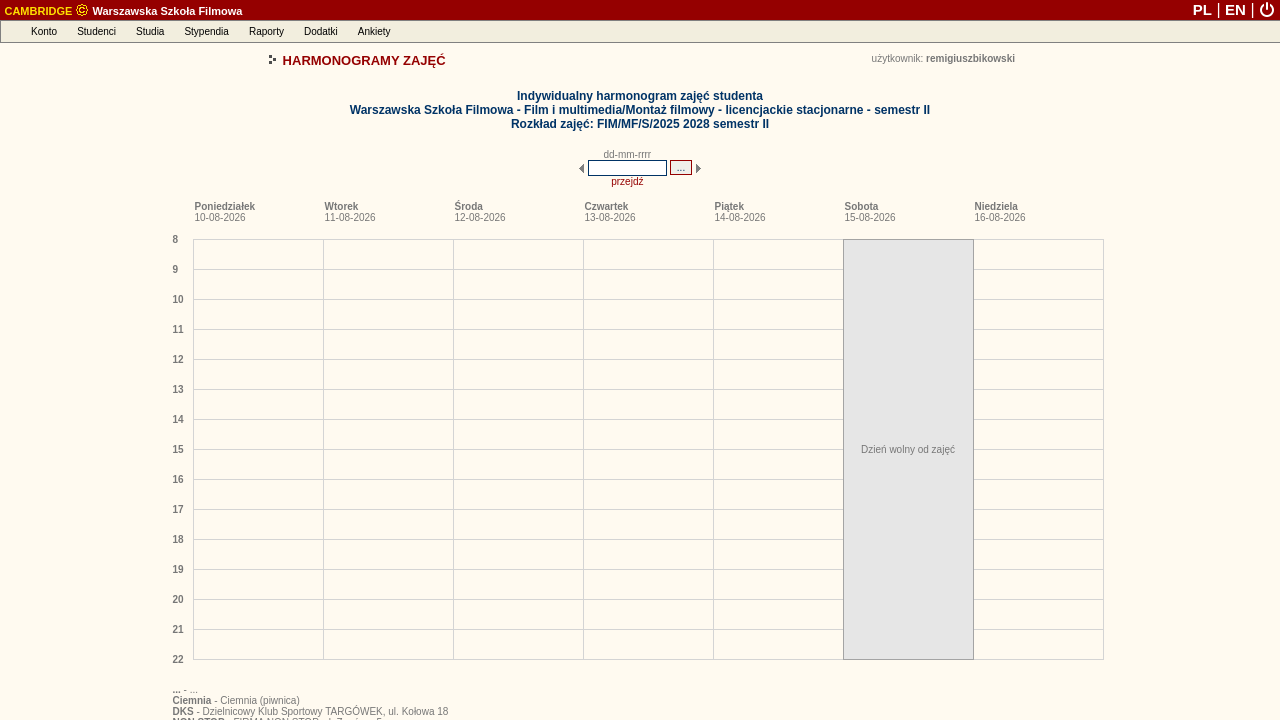
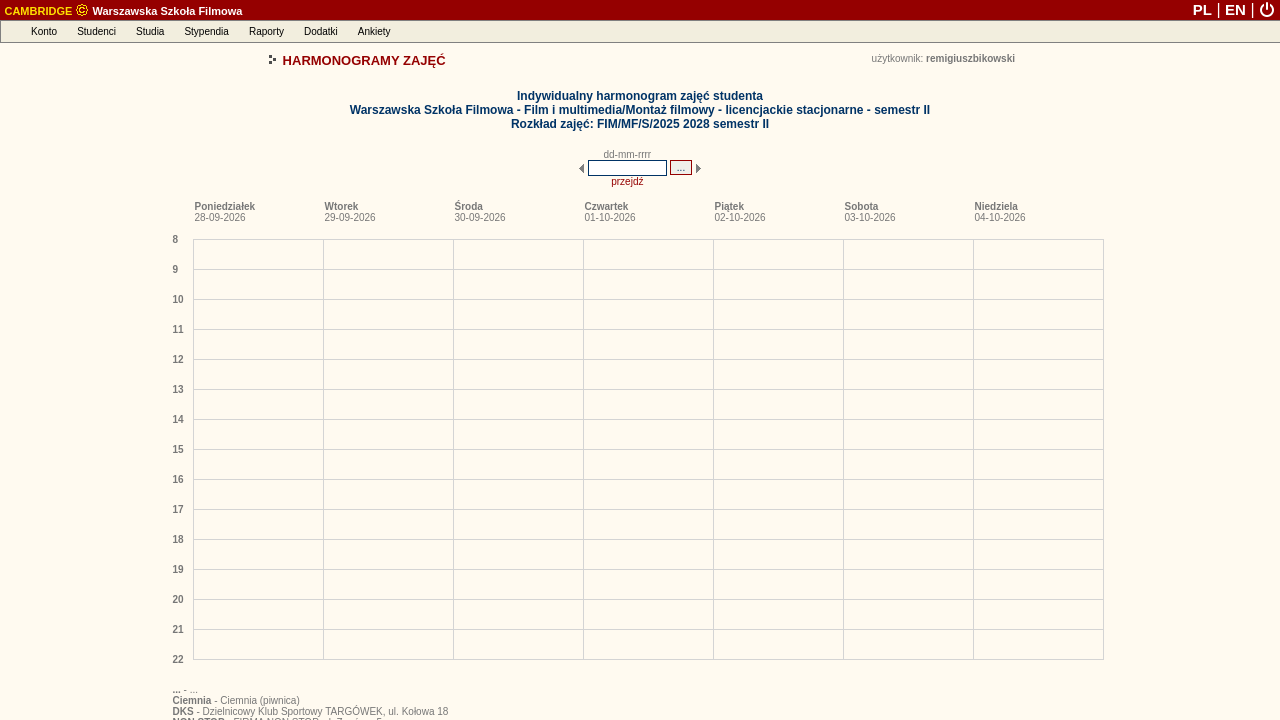
deploy: 0089a95886e71301e0455e70b701082a0dc46df1

Changed region(s): [[0.6562, 0.3056, 0.7812, 0.9167], [0.75, 0.275, 0.7812, 0.3056]]

diff --git a/debug_harmonogram_page.html b/debug_harmonogram_page.html
@@ -163,8 +163,8 @@
 
 
 
-<link rel="stylesheet" type="text/css" href="/palio/html.run?_Instance=cambridge&amp;_PageID=4&amp;_SessionID=1720800&amp;_SessionKey=1401491127&amp;ZoomView=&amp;DisplayMode=&amp;_CheckSum=-928589046">
-<script language="javascript" type="text/javascript" src="/palio/html.run?_Instance=cambridge&amp;_PageID=5&amp;_SessionID=1720800&amp;_SessionKey=1401491127&amp;_CheckSum=-1267184002"></script>
+<link rel="stylesheet" type="text/css" href="/palio/html.run?_Instance=cambridge&amp;_PageID=4&amp;_SessionID=1721620&amp;_SessionKey=409361062&amp;ZoomView=&amp;DisplayMode=&amp;_CheckSum=2044629910">
+<script language="javascript" type="text/javascript" src="/palio/html.run?_Instance=cambridge&amp;_PageID=5&amp;_SessionID=1721620&amp;_SessionKey=409361062&amp;_CheckSum=467626324"></script>
 
 
 
@@ -354,9 +354,9 @@ CambridgeMenuBar = new jsDOMenuBar("absolute", true)
 
 AccountMenu=new jsDOMenu(200, "", "absolute", false);
 
-AccountMenu.addMenuItem(new menuItem("Zmiana hasła", "", "/palio/html.run?_Instance=cambridge&amp;_PageID=11&amp;_SessionID=1720800&amp;_SessionKey=1401491127&amp;_CheckSum=761849839"));
+AccountMenu.addMenuItem(new menuItem("Zmiana hasła", "", "/palio/html.run?_Instance=cambridge&amp;_PageID=11&amp;_SessionID=1721620&amp;_SessionKey=409361062&amp;_CheckSum=-1129488957"));
 
-  AccountMenu.addMenuItem(new menuItem("Komunikator", "", "/palio/html.run?_Instance=cambridge&amp;_PageID=180&amp;_SessionID=1720800&amp;_SessionKey=1401491127&amp;_CheckSum=-43109942"));
+  AccountMenu.addMenuItem(new menuItem("Komunikator", "", "/palio/html.run?_Instance=cambridge&amp;_PageID=180&amp;_SessionID=1721620&amp;_SessionKey=409361062&amp;_CheckSum=507112584"));
 
 
 
@@ -369,7 +369,7 @@ AccountMenu.addMenuItem(new menuItem("Yammer", "", "https://www.yammer.com/onlin
 
 AccountMenu.addMenuItem(new menuItem("-"));
 
-AccountMenu.addMenuItem(new menuItem("Wylogowanie", "", "https://student.szkolafilmowa.pl/palio/html.run?_Instance=cambridge&amp;_PageID=10012&amp;_Action=Logout&amp;_SessionID=1720800&amp;_SessionKey=1401491127"));
+AccountMenu.addMenuItem(new menuItem("Wylogowanie", "", "https://student.szkolafilmowa.pl/palio/html.run?_Instance=cambridge&amp;_PageID=10012&amp;_Action=Logout&amp;_SessionID=1721620&amp;_SessionKey=409361062"));
 
 CambridgeMenuBar.addMenuBarItem(new menuBarItem("Konto", AccountMenu));
 
@@ -382,12 +382,12 @@ StudentsMenu=new jsDOMenu(320, "", "absolute", false);
 
 
 
-StudentsMenu.addMenuItem(new menuItem("Moje dane", "", "/palio/html.run?_Instance=cambridge&amp;_PageID=185&amp;_SessionID=1720800&amp;_SessionKey=1401491127&amp;_CheckSum=-1106270875"));
+StudentsMenu.addMenuItem(new menuItem("Moje dane", "", "/palio/html.run?_Instance=cambridge&amp;_PageID=185&amp;_SessionID=1721620&amp;_SessionKey=409361062&amp;_CheckSum=-635561587"));
 
 
 
 
-StudentsMenu.addMenuItem(new menuItem("Moje indeksy", "", "/palio/html.run?_Instance=cambridge&amp;_PageID=186&amp;_SessionID=1720800&amp;_SessionKey=1401491127&amp;_CheckSum=1258077316"));
+StudentsMenu.addMenuItem(new menuItem("Moje indeksy", "", "/palio/html.run?_Instance=cambridge&amp;_PageID=186&amp;_SessionID=1721620&amp;_SessionKey=409361062&amp;_CheckSum=-5102962"));
 
 
 
@@ -426,7 +426,7 @@ StudiesMenu=new jsDOMenu(250, "", "absolute", false);
 
 
 
-StudiesMenu.addMenuItem(new menuItem("Moje plany studiów", "", "/palio/html.run?_Instance=cambridge&amp;_PageID=258&amp;_SessionID=1720800&amp;_SessionKey=1401491127&amp;_CheckSum=951668702"));
+StudiesMenu.addMenuItem(new menuItem("Moje plany studiów", "", "/palio/html.run?_Instance=cambridge&amp;_PageID=258&amp;_SessionID=1721620&amp;_SessionKey=409361062&amp;_CheckSum=-1261913100"));
 
 
 
@@ -434,13 +434,13 @@ StudiesMenu.addMenuItem(new menuItem("Moje plany studiów", "", "/palio/html.run
 
 
 
-StudiesMenu.addMenuItem(new menuItem("Harmonogramy zajęć", "", "/palio/html.run?_Instance=cambridge&amp;_PageID=95&amp;_SessionID=1720800&amp;_SessionKey=1401491127&amp;_CheckSum=-422860173"));
+StudiesMenu.addMenuItem(new menuItem("Harmonogramy zajęć", "", "/palio/html.run?_Instance=cambridge&amp;_PageID=95&amp;_SessionID=1721620&amp;_SessionKey=409361062&amp;_CheckSum=-1167705409"));
 
-StudiesMenu.addMenuItem(new menuItem("Harmonogramy moich zajęć", "", "/palio/html.run?_Instance=cambridge&amp;_PageID=191&amp;_SessionID=1720800&amp;_SessionKey=1401491127&amp;_CheckSum=-1693379158"));
+StudiesMenu.addMenuItem(new menuItem("Harmonogramy moich zajęć", "", "/palio/html.run?_Instance=cambridge&amp;_PageID=191&amp;_SessionID=1721620&amp;_SessionKey=409361062&amp;_CheckSum=-793047896"));
 
-StudiesMenu.addMenuItem(new menuItem("Harmonogramy innych zajęć", "", "/palio/html.run?_Instance=cambridge&amp;_PageID=248&amp;_SessionID=1720800&amp;_SessionKey=1401491127&amp;_CheckSum=671318813"));
+StudiesMenu.addMenuItem(new menuItem("Harmonogramy innych zajęć", "", "/palio/html.run?_Instance=cambridge&amp;_PageID=248&amp;_SessionID=1721620&amp;_SessionKey=409361062&amp;_CheckSum=668706005"));
 
-StudiesMenu.addMenuItem(new menuItem("Harmonogramy zajętości sal", "", "/palio/html.run?_Instance=cambridge&amp;_PageID=269&amp;_SessionID=1720800&amp;_SessionKey=1401491127&amp;_CheckSum=-698600514"));
+StudiesMenu.addMenuItem(new menuItem("Harmonogramy zajętości sal", "", "/palio/html.run?_Instance=cambridge&amp;_PageID=269&amp;_SessionID=1721620&amp;_SessionKey=409361062&amp;_CheckSum=1732893716"));
 
 
 
@@ -470,9 +470,9 @@ CambridgeMenuBar.addMenuBarItem(new menuBarItem("Studia", StudiesMenu));
 ScholarshipsMenu=new jsDOMenu(230, "", "absolute", false);
 
 
-ScholarshipsMenu.addMenuItem(new menuItem("Moje stypendia", "", "/palio/html.run?_Instance=cambridge&amp;_PageID=187&amp;_SessionID=1720800&amp;_SessionKey=1401491127&amp;_CheckSum=-672541789"));
+ScholarshipsMenu.addMenuItem(new menuItem("Moje stypendia", "", "/palio/html.run?_Instance=cambridge&amp;_PageID=187&amp;_SessionID=1721620&amp;_SessionKey=409361062&amp;_CheckSum=625355663"));
 
-ScholarshipsMenu.addMenuItem(new menuItem("Mój numer rachunku", "", "/palio/html.run?_Instance=cambridge&amp;_PageID=380&amp;_SessionID=1720800&amp;_SessionKey=1401491127&amp;_CheckSum=158713992"));
+ScholarshipsMenu.addMenuItem(new menuItem("Mój numer rachunku", "", "/palio/html.run?_Instance=cambridge&amp;_PageID=380&amp;_SessionID=1721620&amp;_SessionKey=409361062&amp;_CheckSum=1067812362"));
 
 
 
@@ -482,9 +482,9 @@ ScholarshipsMenu.addMenuItem(new menuItem("Mój numer rachunku", "", "/palio/htm
 ScholarshipsMenu.addMenuItem(new menuItem("-"));
 
 
-ScholarshipsMenu.addMenuItem(new menuItem("Fundusze stypendialne", "", "/palio/html.run?_Instance=cambridge&amp;_PageID=54&amp;_SessionID=1720800&amp;_SessionKey=1401491127&amp;_CheckSum=386359376"));
+ScholarshipsMenu.addMenuItem(new menuItem("Fundusze stypendialne", "", "/palio/html.run?_Instance=cambridge&amp;_PageID=54&amp;_SessionID=1721620&amp;_SessionKey=409361062&amp;_CheckSum=1629345090"));
 
-ScholarshipsMenu.addMenuItem(new menuItem("Rodzaje stypendiów", "", "/palio/html.run?_Instance=cambridge&amp;_PageID=55&amp;_SessionID=1720800&amp;_SessionKey=1401491127&amp;_CheckSum=-1544259729"));
+ScholarshipsMenu.addMenuItem(new menuItem("Rodzaje stypendiów", "", "/palio/html.run?_Instance=cambridge&amp;_PageID=55&amp;_SessionID=1721620&amp;_SessionKey=409361062&amp;_CheckSum=-2035163581"));
 
 
 
@@ -495,7 +495,7 @@ CambridgeMenuBar.addMenuBarItem(new menuBarItem("Stypendia", ScholarshipsMenu));
 ReportsMenu=new jsDOMenu(200, "", "absolute", false);
 
 
-ReportsMenu.addMenuItem(new menuItem("Generowanie raportów", "", "/palio/html.run?_Instance=cambridge&amp;_PageID=68&amp;_SessionID=1720800&amp;_SessionKey=1401491127&amp;_CheckSum=1534167437"));
+ReportsMenu.addMenuItem(new menuItem("Generowanie raportów", "", "/palio/html.run?_Instance=cambridge&amp;_PageID=68&amp;_SessionID=1721620&amp;_SessionKey=409361062&amp;_CheckSum=-2074406811"));
 
 
 
@@ -505,7 +505,7 @@ CambridgeMenuBar.addMenuBarItem(new menuBarItem("Raporty", ReportsMenu));
 
 AdditionalsMenu=new jsDOMenu(200, "", "absolute", false);
 
-AdditionalsMenu.addMenuItem(new menuItem("Forum internetowe", "", "/palio/html.run?_Instance=cambridge&amp;_PageID=8001&amp;_SessionID=1720800&amp;_SessionKey=1401491127&amp;_CheckSum=790604214"));
+AdditionalsMenu.addMenuItem(new menuItem("Forum internetowe", "", "/palio/html.run?_Instance=cambridge&amp;_PageID=8001&amp;_SessionID=1721620&amp;_SessionKey=409361062&amp;_CheckSum=-574372068"));
 
 
 
@@ -539,7 +539,7 @@ PollsMenu=new jsDOMenu(225, "", "absolute", false);
 
 
 
-PollsMenu.addMenuItem(new menuItem("Wypełnianie ankiet", "", "/palio/html.run?_Instance=cambridge&amp;_PageID=227&amp;_SessionID=1720800&amp;_SessionKey=1401491127&amp;_CheckSum=2041238140"));
+PollsMenu.addMenuItem(new menuItem("Wypełnianie ankiet", "", "/palio/html.run?_Instance=cambridge&amp;_PageID=227&amp;_SessionID=1721620&amp;_SessionKey=409361062&amp;_CheckSum=-395481706"));
 
 
 CambridgeMenuBar.addMenuBarItem(new menuBarItem("Ankiety", PollsMenu));
@@ -576,7 +576,7 @@ CambridgeMenuBar.moveTo(0,20);
 <table width="100%" border="0" cellspacing="0" cellpadding="0" align="center">
 <tbody><tr class="top_belt">
 
-<td align="left" height="20"><b>&nbsp;<a class="belt" href="/palio/html.run?_Instance=cambridge&amp;_PageID=6&amp;_SessionID=1720800&amp;_SessionKey=1401491127&amp;_CheckSum=1097164189"><span class="belt_application">CAMBRIDGE</span> <img src="/palio/html.media?_Instance=cambridge&amp;_Option=Palio&amp;_ID=51&amp;_CheckSum=684598873" width="14" height="14" border="0" style="position:relative;top:-2px;vertical-align:bottom"> Warszawska Szkoła Filmowa</a></b></td>
+<td align="left" height="20"><b>&nbsp;<a class="belt" href="/palio/html.run?_Instance=cambridge&amp;_PageID=6&amp;_SessionID=1721620&amp;_SessionKey=409361062&amp;_CheckSum=1098084949"><span class="belt_application">CAMBRIDGE</span> <img src="/palio/html.media?_Instance=cambridge&amp;_Option=Palio&amp;_ID=51&amp;_CheckSum=684598873" width="14" height="14" border="0" style="position:relative;top:-2px;vertical-align:bottom"> Warszawska Szkoła Filmowa</a></b></td>
 <td align="right">
 
 
@@ -587,13 +587,13 @@ CambridgeMenuBar.moveTo(0,20);
 
 
 
-<a href="/palio/html.run?_Instance=cambridge&amp;_PageID=6&amp;_SessionID=1720800&amp;_SessionKey=1401491127&amp;SetLanguage=pl&amp;_CheckSum=-992986787" class="belt" style="font-size:15px;line-height:18px;text-decoration:none" title="polski"><b>PL</b></a>
+<a href="/palio/html.run?_Instance=cambridge&amp;_PageID=6&amp;_SessionID=1721620&amp;_SessionKey=409361062&amp;SetLanguage=pl&amp;_CheckSum=-1872707163" class="belt" style="font-size:15px;line-height:18px;text-decoration:none" title="polski"><b>PL</b></a>
 <span class="belt" style="font-size:16px">|</span>
-<a href="/palio/html.run?_Instance=cambridge&amp;_PageID=6&amp;_SessionID=1720800&amp;_SessionKey=1401491127&amp;SetLanguage=en&amp;_CheckSum=899796496" class="belt" style="font-size:15px;line-height:18px;text-decoration:none" title="english"><b>EN</b></a>
+<a href="/palio/html.run?_Instance=cambridge&amp;_PageID=6&amp;_SessionID=1721620&amp;_SessionKey=409361062&amp;SetLanguage=en&amp;_CheckSum=20076120" class="belt" style="font-size:15px;line-height:18px;text-decoration:none" title="english"><b>EN</b></a>
 <span class="belt" style="font-size:16px">|</span>
 
 
-<img src="/palio/html.media?_Instance=cambridge&amp;_Option=Palio&amp;_ID=94&amp;_CheckSum=-1316787974" style="cursor:pointer;vertical-align:bottom;margin-bottom:2px;margin-right:5px" alt="Wyloguj" title="Wyloguj" onclick="if(confirm('Czy na pewno chcesz się wylogować?'))window.location='https://student.szkolafilmowa.pl/palio/html.run?_Instance=cambridge&amp;_PageID=10012&amp;_Action=Logout&amp;_SessionID=1720800&amp;_SessionKey=1401491127'">
+<img src="/palio/html.media?_Instance=cambridge&amp;_Option=Palio&amp;_ID=94&amp;_CheckSum=-1316787974" style="cursor:pointer;vertical-align:bottom;margin-bottom:2px;margin-right:5px" alt="Wyloguj" title="Wyloguj" onclick="if(confirm('Czy na pewno chcesz się wylogować?'))window.location='https://student.szkolafilmowa.pl/palio/html.run?_Instance=cambridge&amp;_PageID=10012&amp;_Action=Logout&amp;_SessionID=1721620&amp;_SessionKey=409361062'">
 </td>
 
 </tr>
@@ -2153,16 +2153,16 @@ document.schedule_scroll_form.submit();
 }
 function goForward()
 {
-document.schedule_scroll_form._firstDayOfWeek.value = '17-08-2026';
+document.schedule_scroll_form._firstDayOfWeek.value = '05-10-2026';
 document.schedule_scroll_form.submit();
 }
 function goBackward()
 {
-document.schedule_scroll_form._firstDayOfWeek.value = '08-08-2026';
+document.schedule_scroll_form._firstDayOfWeek.value = '26-09-2026';
 document.schedule_scroll_form.submit();
 }
 </script>
-<form method="post" name="schedule_scroll_form" id="schedule_scroll_form" action="/palio/html.run?_Instance=cambridge&amp;_PageID=191&amp;_SessionID=1720800&amp;_SessionKey=1401491127&amp;_RowID=7251&amp;_RowIDType=I&amp;_CheckSum=-1414648876" onsubmit="return checkFrm_schedule_scroll_form(this)">
+<form method="post" name="schedule_scroll_form" id="schedule_scroll_form" action="/palio/html.run?_Instance=cambridge&amp;_PageID=191&amp;_SessionID=1721620&amp;_SessionKey=409361062&amp;_RowID=7251&amp;_RowIDType=I&amp;_CheckSum=-1155560298" onsubmit="return checkFrm_schedule_scroll_form(this)">
 <div style="display:none;"><input type="hidden" name="_formSubmitted" value="yes"></div>
 <input type="hidden" name="_firstDayOfWeek">
 <table cellspacing="0" cellpadding="0" border="0" align="center">
@@ -2938,22 +2938,6 @@ return true;
 
 
 
-
-
-
-
-
-
-
-
-
-
-
-
-
-
-
-
 <br>
 
 
@@ -2965,9 +2949,6 @@ return true;
 
 
 
- 
- 
- 
 
 
 
@@ -3020,52 +3001,6 @@ return true;
 
 
 
-
-
-
-
-
-
-
-
-
-
-
-
-
-
-
-
-
-
-
-
-
-
-
-
-
-
-
-
-
-
-
-
-
-
-
-
-
-
-
-
-
-
-
-
-
-  
 
 
 
@@ -3524,7 +3459,7 @@ tipDivElement.style.visibility="hidden"
 <tbody><tr><td class="font">
 <b class="font">Poniedziałek</b><br>
 
-<span class="font">10-08-2026</span>
+<span class="font">28-09-2026</span>
 </td></tr>
 </tbody></table>
 </div>
@@ -3539,7 +3474,7 @@ tipDivElement.style.visibility="hidden"
 <tbody><tr><td class="font">
 <b class="font">Wtorek</b><br>
 
-<span class="font">11-08-2026</span>
+<span class="font">29-09-2026</span>
 </td></tr>
 </tbody></table>
 </div>
@@ -3554,7 +3489,7 @@ tipDivElement.style.visibility="hidden"
 <tbody><tr><td class="font">
 <b class="font">Środa</b><br>
 
-<span class="font">12-08-2026</span>
+<span class="font">30-09-2026</span>
 </td></tr>
 </tbody></table>
 </div>
@@ -3569,7 +3504,7 @@ tipDivElement.style.visibility="hidden"
 <tbody><tr><td class="font">
 <b class="font">Czwartek</b><br>
 
-<span class="font">13-08-2026</span>
+<span class="font">01-10-2026</span>
 </td></tr>
 </tbody></table>
 </div>
@@ -3584,7 +3519,7 @@ tipDivElement.style.visibility="hidden"
 <tbody><tr><td class="font">
 <b class="font">Piątek</b><br>
 
-<span class="font">14-08-2026</span>
+<span class="font">02-10-2026</span>
 </td></tr>
 </tbody></table>
 </div>
@@ -3599,7 +3534,7 @@ tipDivElement.style.visibility="hidden"
 <tbody><tr><td class="font">
 <b class="font">Sobota</b><br>
 
-<span class="font">15-08-2026</span>
+<span class="font">03-10-2026</span>
 </td></tr>
 </tbody></table>
 </div>
@@ -3614,7 +3549,7 @@ tipDivElement.style.visibility="hidden"
 <tbody><tr><td class="font">
 <b class="font">Niedziela</b><br>
 
-<span class="font">16-08-2026</span>
+<span class="font">04-10-2026</span>
 </td></tr>
 </tbody></table>
 </div>
@@ -3623,34 +3558,6 @@ tipDivElement.style.visibility="hidden"
 
 
 
-
-
-
-
-
-
-
-
-
-
-
-
-
-
-<div style="
-position:absolute;
-top:0;
-left:670;
-width:129;
-height:419.00;
-layer-background-color:#E6E6E6;
-background-color:#E6E6E6;
-border:1px solid #A4A4A4;
-z-index:0;">
-<table cellspacing="0" cellpadding="0" align="center" width="129">
-<tbody><tr><td width="129" align="center" class="font" valign="middle" height="419.00">Dzień wolny od zajęć</td></tr>
-</tbody></table>
-</div>
 
 
 </div>
@@ -3677,8 +3584,8 @@ z-index:0;">
 <td align="right">
 <table cellspacing="0" cellpadding="2" border="0">
 <tbody><tr>
-<td valign="middle"><a class="link" href="/palio/html.run?_Instance=cambridge&amp;_PageID=96&amp;_SessionID=1720800&amp;_SessionKey=1401491127&amp;_RowID=7251&amp;_RowIDType=I&amp;_firstDayOfWeek=10-08-2026&amp;_CheckSum=1466161869" target="_blank">drukuj</a></td>
-<td valign="middle"><a class="link" href="/palio/html.run?_Instance=cambridge&amp;_PageID=96&amp;_SessionID=1720800&amp;_SessionKey=1401491127&amp;_RowID=7251&amp;_RowIDType=I&amp;_firstDayOfWeek=10-08-2026&amp;_CheckSum=1466161869" target="_blank"><img src="/palio/html.media?_Instance=cambridge&amp;_Option=Palio&amp;_ID=26&amp;_CheckSum=1936112049" awidth="16" height="14" alt="drukuj" title="drukuj" border="0"></a></td>
+<td valign="middle"><a class="link" href="/palio/html.run?_Instance=cambridge&amp;_PageID=96&amp;_SessionID=1721620&amp;_SessionKey=409361062&amp;_RowID=7251&amp;_RowIDType=I&amp;_firstDayOfWeek=28-09-2026&amp;_CheckSum=-1162297227" target="_blank">drukuj</a></td>
+<td valign="middle"><a class="link" href="/palio/html.run?_Instance=cambridge&amp;_PageID=96&amp;_SessionID=1721620&amp;_SessionKey=409361062&amp;_RowID=7251&amp;_RowIDType=I&amp;_firstDayOfWeek=28-09-2026&amp;_CheckSum=-1162297227" target="_blank"><img src="/palio/html.media?_Instance=cambridge&amp;_Option=Palio&amp;_ID=26&amp;_CheckSum=1936112049" awidth="16" height="14" alt="drukuj" title="drukuj" border="0"></a></td>
 </tr>
 </tbody></table>
 </td>
@@ -3710,7 +3617,7 @@ z-index:0;">
 
 
 
-<input type="button" name="jump_action" value="Powrót do listy harmonogramów zajęć" class="button" onclick="window.location='/palio/html.run?_Instance=cambridge&amp;_PageID=191&amp;_SessionID=1720800&amp;_SessionKey=1401491127&amp;_CheckSum=-1693379158'">
+<input type="button" name="jump_action" value="Powrót do listy harmonogramów zajęć" class="button" onclick="window.location='/palio/html.run?_Instance=cambridge&amp;_PageID=191&amp;_SessionID=1721620&amp;_SessionKey=409361062&amp;_CheckSum=-793047896'">
 
 
 
@@ -3735,7 +3642,7 @@ z-index:0;">
 grayscaleImagesIE10Plus();
 </script>
 
-<p align="right" class="font"><i style="color:#aaaaaa">Czas generowania strony 4359 ms</i></p>
+<p align="right" class="font"><i style="color:#aaaaaa">Czas generowania strony 106 ms</i></p>
 
 
 </body></html>
